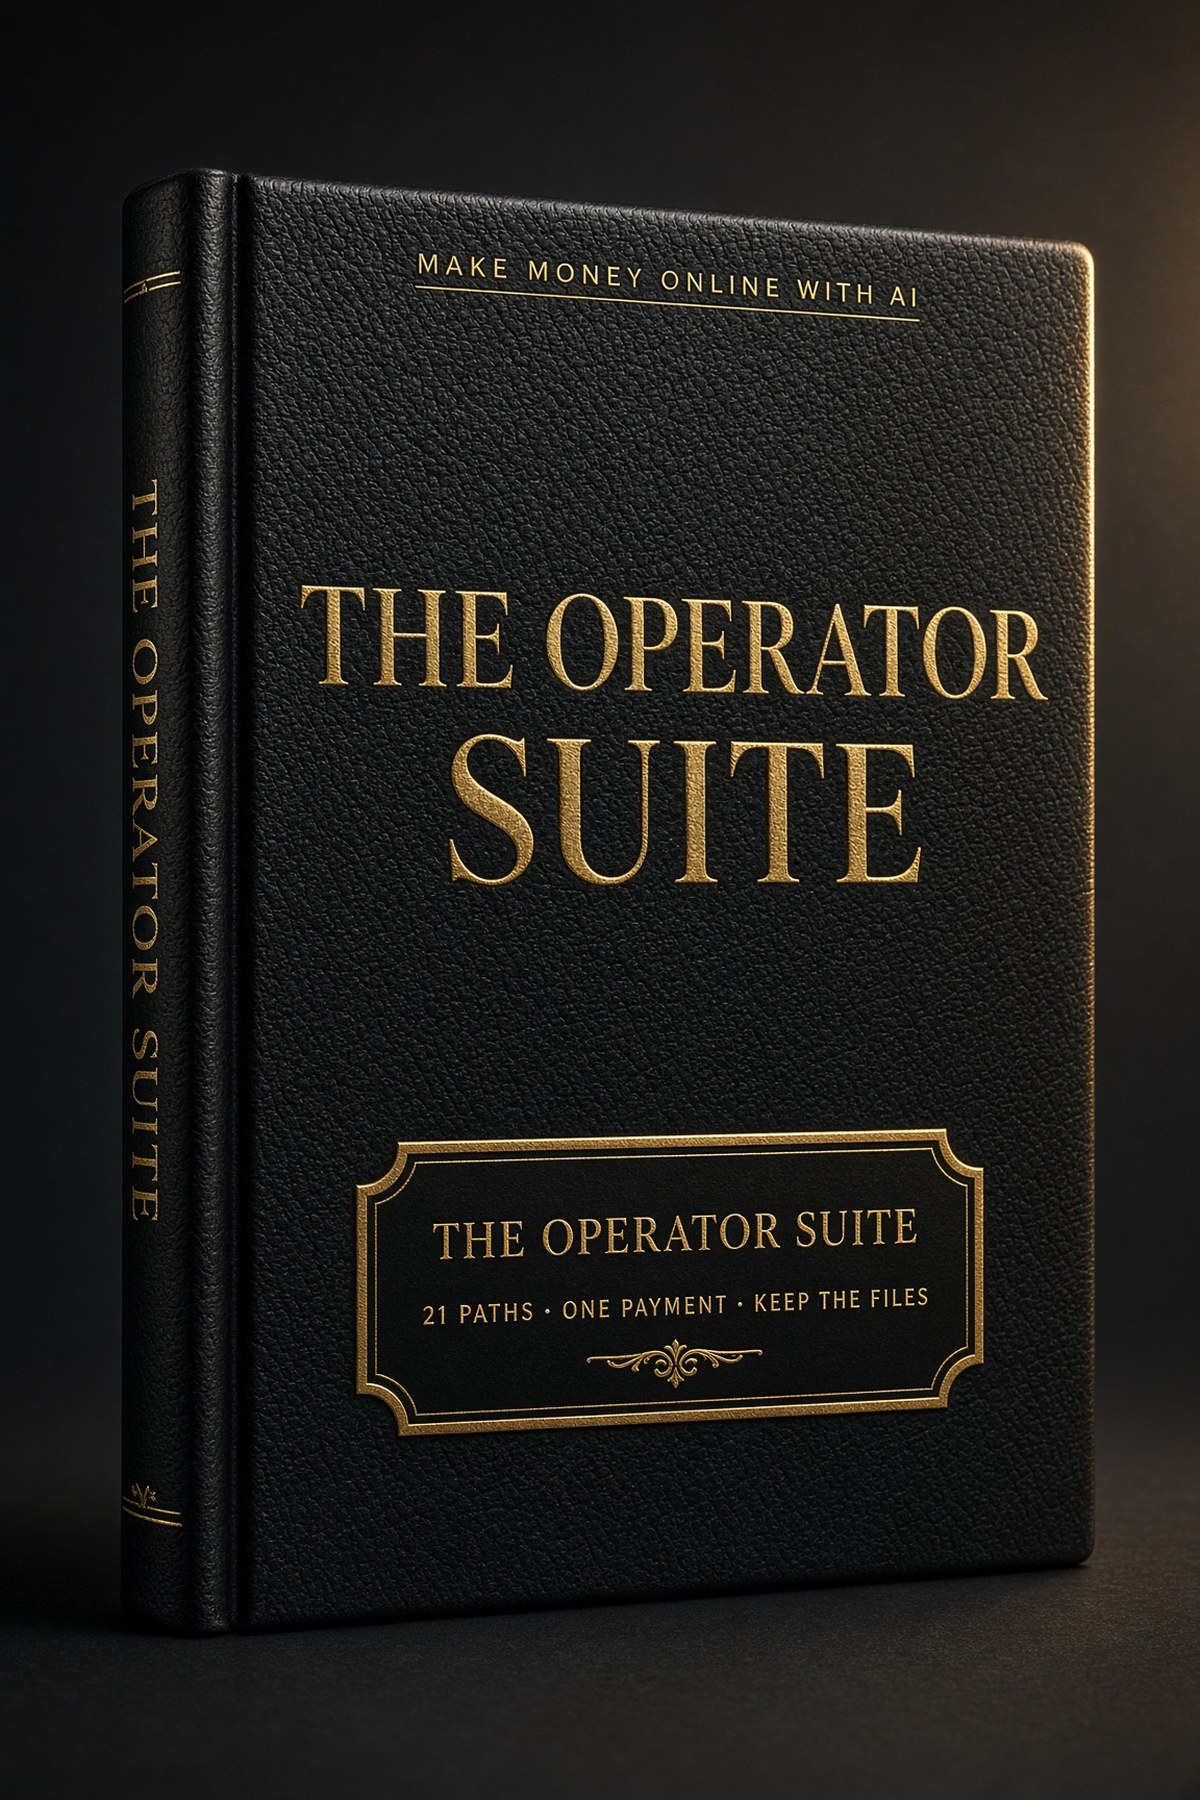
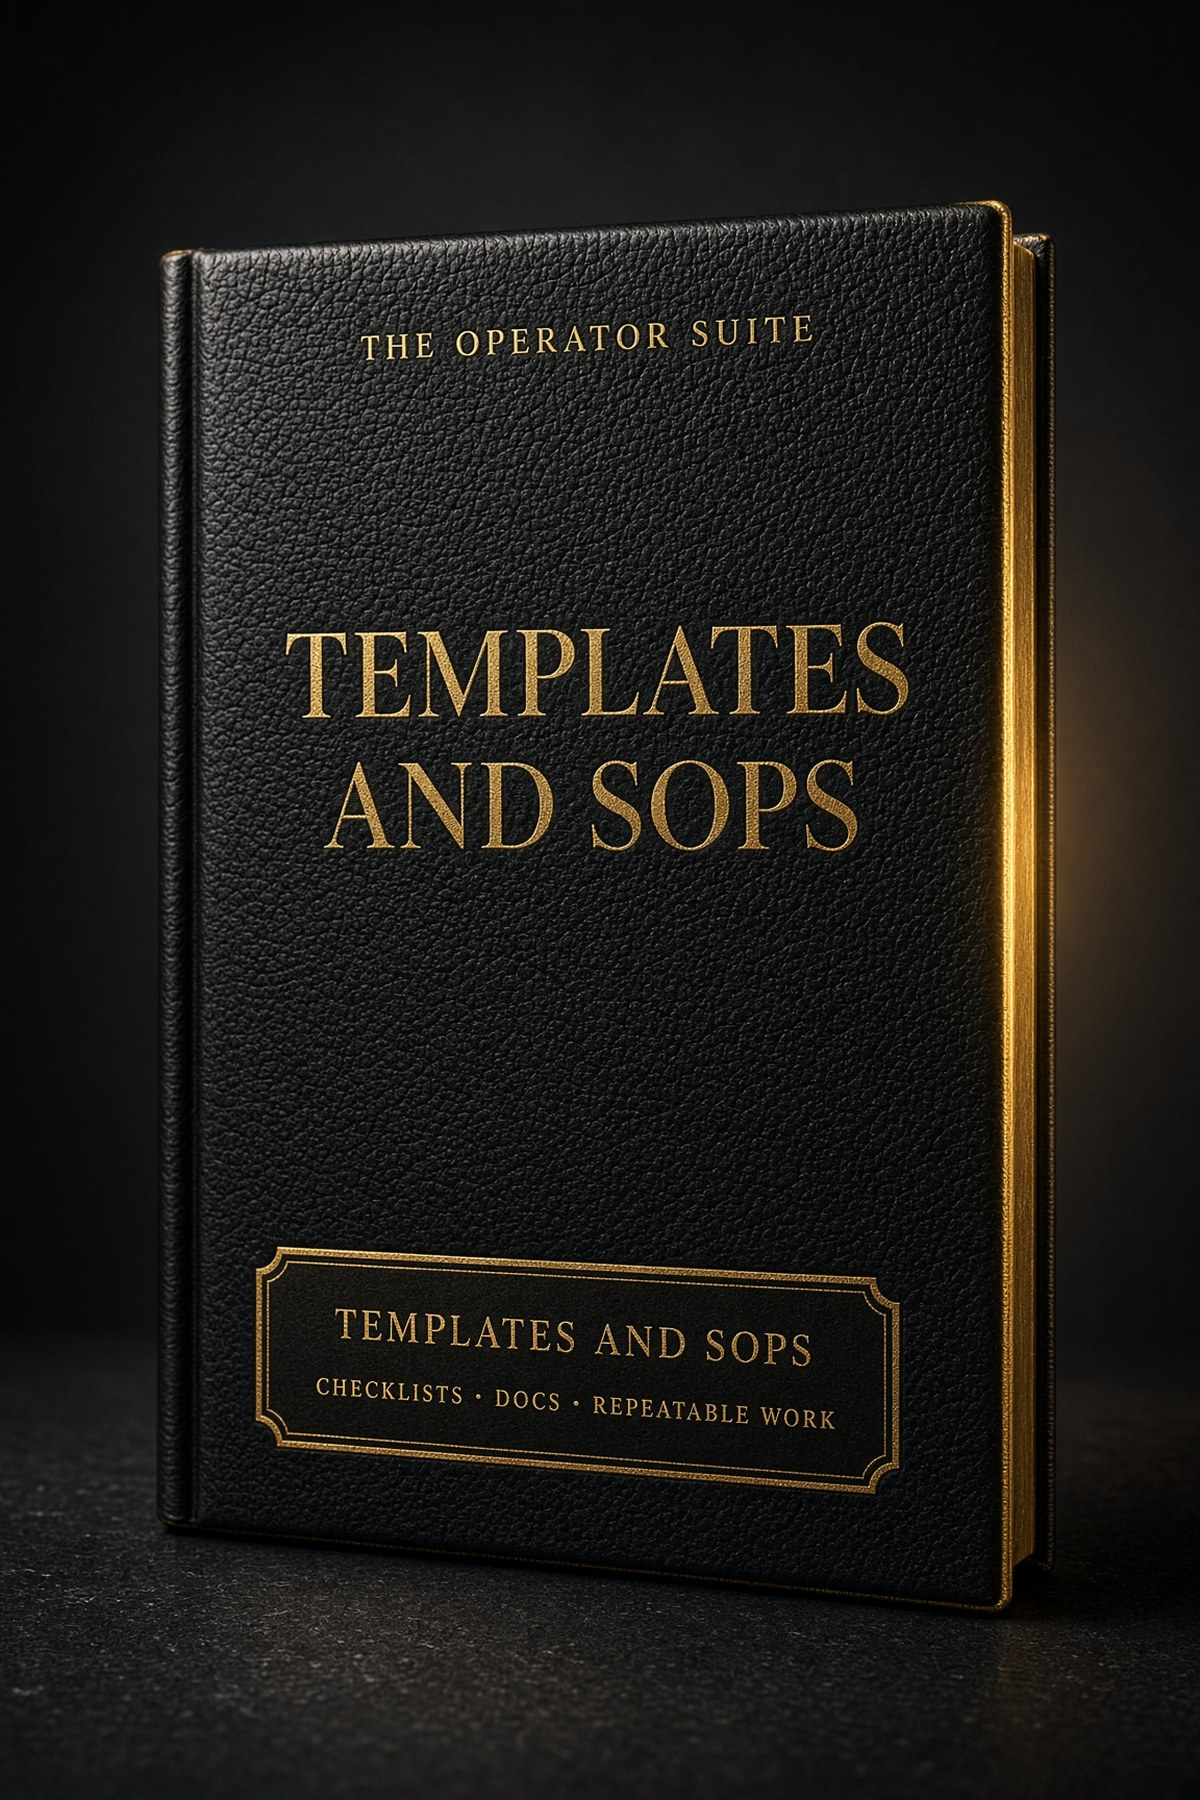
Path 01 first card is Templates and SOPs cover

diff --git a/the-operator-suite/library.html b/the-operator-suite/library.html
@@ -53,7 +53,7 @@ h1,h2,h3{font-family:"Cormorant Garamond",Georgia,serif;font-weight:500}
     <button class="btn" type="submit">Email my link</button>
   </form>
   <div class="grid">
-<a class="card" href="?path=01"><div class="shot"><img src="covers/front-door.jpg" alt=""/><span class="lock">OPEN · PDF</span></div><p class="n">PATH 01</p><h3>Your front door</h3></a>
+<a class="card" href="?path=01"><div class="shot"><img src="covers/templates.jpg" alt=""/><span class="lock">OPEN · PDF</span></div><p class="n">PATH 01</p><h3>Templates and SOPs</h3></a>
 <a class="card" href="?path=02"><div class="shot"><img src="covers/skill-pack.jpg" alt=""/><span class="lock">OPEN · PDF</span></div><p class="n">PATH 02</p><h3>Ship a skill pack</h3></a>
 <a class="card" href="?path=03"><div class="shot"><img src="covers/prompt-stacks.jpg" alt=""/><span class="lock">OPEN · PDF</span></div><p class="n">PATH 03</p><h3>Niche prompt stacks</h3></a>
 <a class="card" href="?path=04"><div class="shot"><img src="covers/short-form.jpg" alt=""/><span class="lock">OPEN · PDF</span></div><p class="n">PATH 04</p><h3>AI-assisted short-form</h3></a>
@@ -73,7 +73,7 @@ h1,h2,h3{font-family:"Cormorant Garamond",Georgia,serif;font-weight:500}
 <a class="card" href="?path=18"><div class="shot"><img src="covers/research-briefs.jpg" alt=""/><span class="lock">OPEN · PDF</span></div><p class="n">PATH 18</p><h3>Research and brief service</h3></a>
 <a class="card" href="?path=19"><div class="shot"><img src="covers/automations.jpg" alt=""/><span class="lock">OPEN · PDF</span></div><p class="n">PATH 19</p><h3>Automation setups</h3></a>
 <a class="card" href="?path=20"><div class="shot"><img src="covers/custom-projects.jpg" alt=""/><span class="lock">OPEN · PDF</span></div><p class="n">PATH 20</p><h3>Custom project setups</h3></a>
-<a class="card" href="?path=21"><div class="shot"><img src="covers/ai-playbook.jpg" alt=""/><span class="lock">OPEN · PDF</span></div><p class="n">PATH 21</p><h3>Sell an AI playbook</h3></a>
+<a class="card" href="?path=21"><div class="shot"><img src="covers/front-door.jpg" alt=""/><span class="lock">OPEN · PDF</span></div><p class="n">PATH 21</p><h3>Your front door</h3></a>
   </div>
 </main>
 <section class="guide" id="reader" hidden>
@@ -121,7 +121,7 @@ if(path && GUIDES[path]){
   document.getElementById('r-who').textContent='Who it is for: '+g[1];
   document.getElementById('r-sale').textContent='First sale: '+g[2];
   document.getElementById('r-body').innerHTML=g[3];
-  var cover={"01":"front-door","02":"skill-pack","03":"prompt-stacks","04":"short-form","05":"newsletter","06":"templates-os","07":"productized-service","08":"affiliate","09":"printables","10":"creator-ads","11":"long-form","12":"local-ai","13":"design-stock","14":"membership","15":"operator-group","16":"freelance-productize","17":"live-drops","18":"research-briefs","19":"automations","20":"custom-projects","21":"ai-playbook"};
+  var cover={"01":"templates","02":"skill-pack","03":"prompt-stacks","04":"short-form","05":"newsletter","06":"templates-os","07":"productized-service","08":"affiliate","09":"printables","10":"creator-ads","11":"long-form","12":"local-ai","13":"design-stock","14":"membership","15":"operator-group","16":"freelance-productize","17":"live-drops","18":"research-briefs","19":"automations","20":"custom-projects","21":"front-door"};
   document.getElementById('r-img').src='covers/'+cover[path]+'.jpg';
   document.getElementById('r-pdf').onclick=function(){
     var w=window.open('','_blank');

diff --git a/the-operator-suite/index.html b/the-operator-suite/index.html
@@ -152,7 +152,7 @@ header.bar .wrap{display:flex;justify-content:space-between;align-items:center;g
 </div></section>
 <script>
 var paths=[
-['covers/front-door.jpg','Your front door'],
+['covers/templates.jpg','Templates and SOPs'],
 ['covers/skill-pack.jpg','Ship a Claude or ChatGPT skill pack'],
 ['covers/prompt-stacks.jpg','Niche prompt stacks'],
 ['covers/short-form.jpg','AI-assisted short-form'],
@@ -172,7 +172,7 @@ var paths=[
 ['covers/research-briefs.jpg','Research and brief service'],
 ['covers/automations.jpg','Automation setups'],
 ['covers/custom-projects.jpg','Custom project setups'],
-['covers/ai-playbook.jpg','Sell an AI playbook']
+['covers/front-door.jpg','Your front door']
 ];
 var buy='https://buy.stripe.com/bJe3cxfb79vTd48cWe7ok09';
 var g=document.getElementById('paths');
